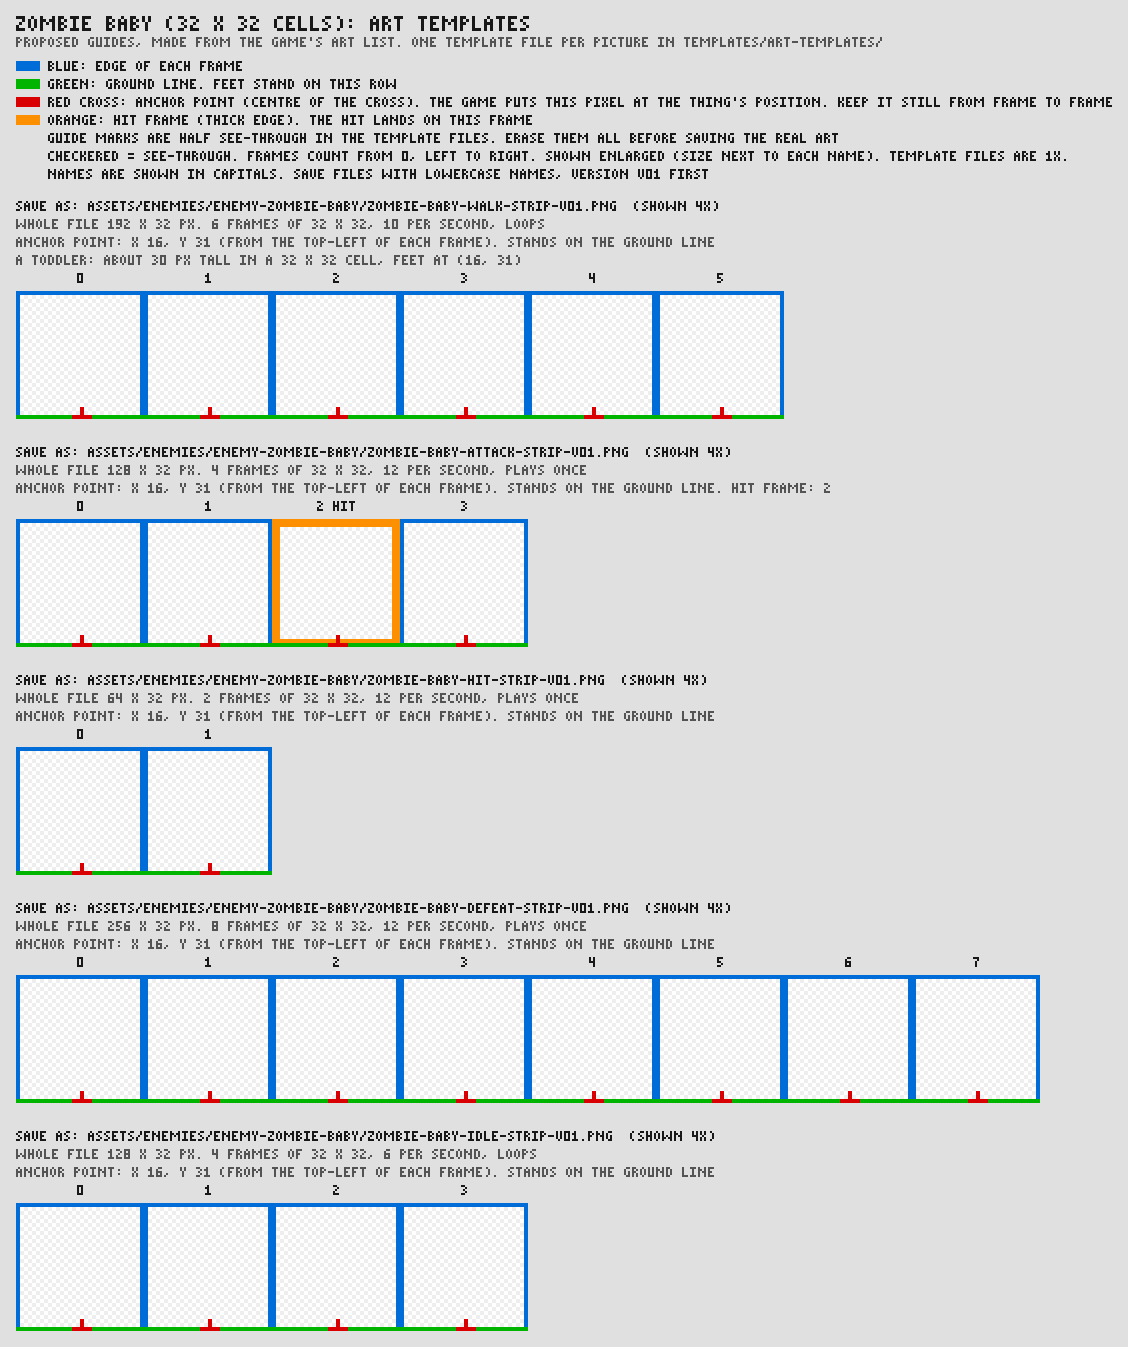
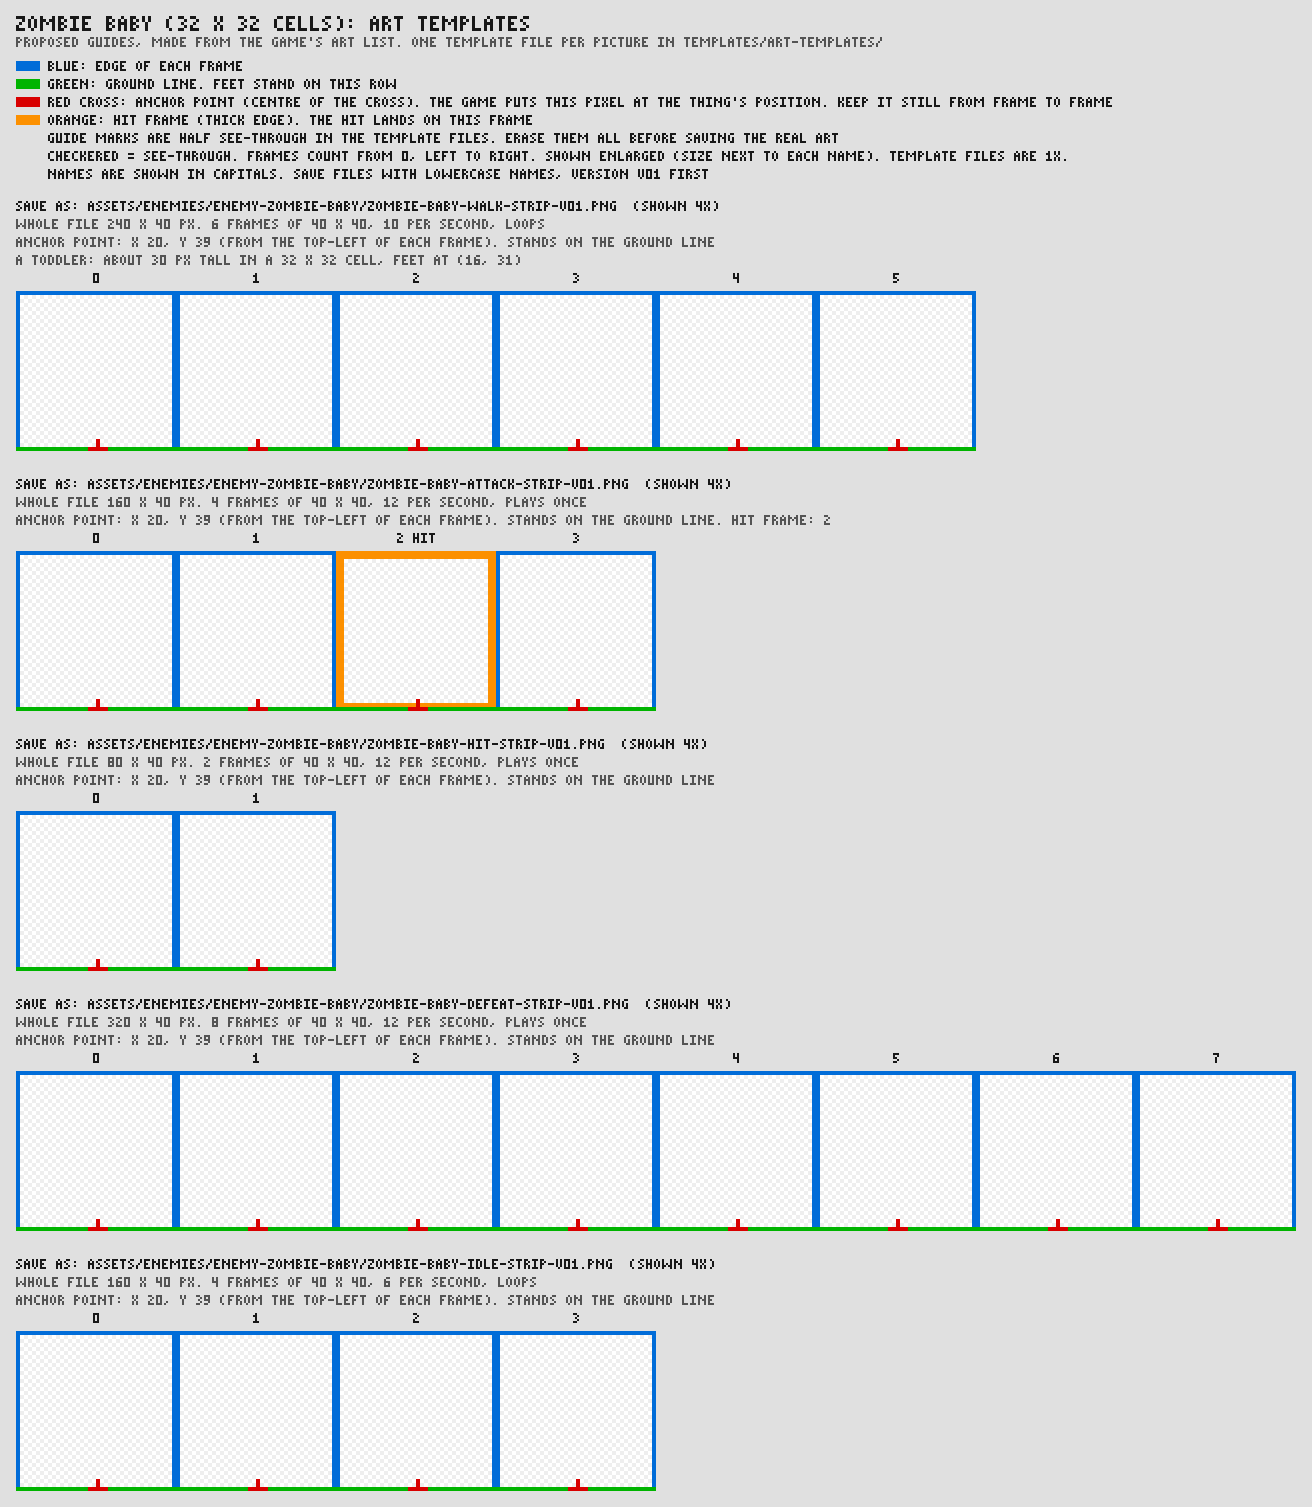
Install the zombie roster art: hippie, sweater, cheerleader, baby and the Brute (33 strips)
- Strips cut from the owner's sheets with importer v2, contrasting schemes
  (orange/yellow hippie, zigzag sweater, white/blue cheerleader, pastel baby),
  Brute with full gore; 33 ASSET_SOURCES rows
- Baby cell 32x32 -> 40x40 feet (20,39) so her gags survive; docs + templates
- Build: 48 real art files included, 0 left out; 139 rule/importer tests,
  57 browser checks

Claude-Session: https://claude.ai/code/session_0134CphAw1ZDVQLg8q3hqWcr

Changed region(s): [[0.0, 0.0, 0.9929, 0.9978], [0.6826, 0.343, 0.7137, 0.3742]]

diff --git a/game/dist/index.html b/game/dist/index.html
@@ -548,8 +548,8 @@ globalThis.SAMMY_ASSET_BASE = 'assets/';
   const SWE = 'enemies/enemy-zombie-sweater/';
   const big = { fw: 64, fh: 56, px: 32, py: 55 }; // the sweater's cells: he stands about 52 px, wider than a 48 px cell
   const CHEER = 'enemies/enemy-zombie-cheerleader/'; // 48x48, feet (24, 47) like the jogger (zombie roster, 2026-10-20)
-  const BABY = 'enemies/enemy-zombie-baby/';         // a toddler: 32x32 cells, feet (16, 31), about 30 px standing
-  const baby = { fw: 32, fh: 32, px: 16, py: 31 };
+  const BABY = 'enemies/enemy-zombie-baby/';         // a toddler: 40x40 cells, feet (20, 39), about 36 px standing
+  const baby = { fw: 40, fh: 40, px: 20, py: 39 }; // 40x40 cells (about 36 px standing): at 32 px her eyeball/rattle/brain gags turned to mush
   const CART = 'props/prop-hot-dog-cart/';
   const LID = 'items/item-powerup-trash-lid-shield/';
   const SAW = 'items/item-powerup-chainsaw/';
@@ -796,7 +796,7 @@ globalThis.SAMMY_ASSET_BASE = 'assets/';
 })(globalThis.SAMMY = globalThis.SAMMY || {});
 
 // ---- src/asset-files.js ----
-(function (S) { S.PRESENT_ASSET_FILES = {"characters/character-sammy/sammy-idle-strip-v01.png":"characters/character-sammy/sammy-idle-strip-v03.png","characters/character-sammy/sammy-run-strip-v01.png":"characters/character-sammy/sammy-run-strip-v03.png","characters/character-sammy/sammy-jump-rise-strip-v01.png":"characters/character-sammy/sammy-jump-rise-strip-v03.png","characters/character-sammy/sammy-fall-strip-v01.png":"characters/character-sammy/sammy-fall-strip-v03.png","characters/character-sammy/sammy-land-strip-v01.png":"characters/character-sammy/sammy-land-strip-v03.png","characters/character-sammy/sammy-tail-whip-strip-v01.png":"characters/character-sammy/sammy-tail-whip-strip-v03.png","characters/character-sammy/sammy-hurt-strip-v01.png":"characters/character-sammy/sammy-hurt-strip-v03.png","characters/character-sammy/sammy-play-dead-strip-v01.png":"characters/character-sammy/sammy-play-dead-strip-v03.png","characters/character-sammy/sammy-ko-strip-v01.png":"characters/character-sammy/sammy-ko-strip-v03.png","characters/character-sammy/sammy-victory-strip-v01.png":"characters/character-sammy/sammy-victory-strip-v03.png","characters/character-sammy/sammy-chainsaw-idle-strip-v01.png":"characters/character-sammy/sammy-chainsaw-idle-strip-v03.png","characters/character-sammy/sammy-chainsaw-run-strip-v01.png":"characters/character-sammy/sammy-chainsaw-run-strip-v03.png","characters/character-sammy/sammy-chainsaw-rev-strip-v01.png":"characters/character-sammy/sammy-chainsaw-rev-strip-v03.png","items/item-powerup-chainsaw/chainsaw-pickup-strip-v01.png":"items/item-powerup-chainsaw/chainsaw-pickup-strip-v01.png","items/item-powerup-chainsaw/hud-icon-chainsaw-v01.png":"items/item-powerup-chainsaw/hud-icon-chainsaw-v01.png"}; S.PRESENT_SOUND_FILES = {}; })(globalThis.SAMMY = globalThis.SAMMY || {});
+(function (S) { S.PRESENT_ASSET_FILES = {"characters/character-sammy/sammy-idle-strip-v01.png":"characters/character-sammy/sammy-idle-strip-v03.png","characters/character-sammy/sammy-run-strip-v01.png":"characters/character-sammy/sammy-run-strip-v03.png","characters/character-sammy/sammy-jump-rise-strip-v01.png":"characters/character-sammy/sammy-jump-rise-strip-v03.png","characters/character-sammy/sammy-fall-strip-v01.png":"characters/character-sammy/sammy-fall-strip-v03.png","characters/character-sammy/sammy-land-strip-v01.png":"characters/character-sammy/sammy-land-strip-v03.png","characters/character-sammy/sammy-tail-whip-strip-v01.png":"characters/character-sammy/sammy-tail-whip-strip-v03.png","characters/character-sammy/sammy-hurt-strip-v01.png":"characters/character-sammy/sammy-hurt-strip-v03.png","characters/character-sammy/sammy-play-dead-strip-v01.png":"characters/character-sammy/sammy-play-dead-strip-v03.png","characters/character-sammy/sammy-ko-strip-v01.png":"characters/character-sammy/sammy-ko-strip-v03.png","characters/character-sammy/sammy-victory-strip-v01.png":"characters/character-sammy/sammy-victory-strip-v03.png","characters/character-sammy/sammy-chainsaw-idle-strip-v01.png":"characters/character-sammy/sammy-chainsaw-idle-strip-v03.png","characters/character-sammy/sammy-chainsaw-run-strip-v01.png":"characters/character-sammy/sammy-chainsaw-run-strip-v03.png","characters/character-sammy/sammy-chainsaw-rev-strip-v01.png":"characters/character-sammy/sammy-chainsaw-rev-strip-v03.png","enemies/enemy-zombie-hippie/zombie-hippie-walk-strip-v01.png":"enemies/enemy-zombie-hippie/zombie-hippie-walk-strip-v01.png","enemies/enemy-zombie-hippie/zombie-hippie-attack-strip-v01.png":"enemies/enemy-zombie-hippie/zombie-hippie-attack-strip-v01.png","enemies/enemy-zombie-hippie/zombie-hippie-hit-strip-v01.png":"enemies/enemy-zombie-hippie/zombie-hippie-hit-strip-v01.png","enemies/enemy-zombie-hippie/zombie-hippie-defeat-strip-v01.png":"enemies/enemy-zombie-hippie/zombie-hippie-defeat-strip-v01.png","enemies/enemy-zombie-hippie/zombie-hippie-idle-strip-v01.png":"enemies/enemy-zombie-hippie/zombie-hippie-idle-strip-v01.png","enemies/enemy-zombie-sweater/zombie-sweater-walk-strip-v01.png":"enemies/enemy-zombie-sweater/zombie-sweater-walk-strip-v01.png","enemies/enemy-zombie-sweater/zombie-sweater-attack-strip-v01.png":"enemies/enemy-zombie-sweater/zombie-sweater-attack-strip-v01.png","enemies/enemy-zombie-sweater/zombie-sweater-hit-strip-v01.png":"enemies/enemy-zombie-sweater/zombie-sweater-hit-strip-v01.png","enemies/enemy-zombie-sweater/zombie-sweater-defeat-strip-v01.png":"enemies/enemy-zombie-sweater/zombie-sweater-defeat-strip-v01.png","enemies/enemy-zombie-sweater/zombie-sweater-idle-strip-v01.png":"enemies/enemy-zombie-sweater/zombie-sweater-idle-strip-v01.png","enemies/enemy-zombie-cheerleader/zombie-cheerleader-walk-strip-v01.png":"enemies/enemy-zombie-cheerleader/zombie-cheerleader-walk-strip-v01.png","enemies/enemy-zombie-cheerleader/zombie-cheerleader-attack-strip-v01.png":"enemies/enemy-zombie-cheerleader/zombie-cheerleader-attack-strip-v01.png","enemies/enemy-zombie-cheerleader/zombie-cheerleader-hit-strip-v01.png":"enemies/enemy-zombie-cheerleader/zombie-cheerleader-hit-strip-v01.png","enemies/enemy-zombie-cheerleader/zombie-cheerleader-defeat-strip-v01.png":"enemies/enemy-zombie-cheerleader/zombie-cheerleader-defeat-strip-v01.png","enemies/enemy-zombie-cheerleader/zombie-cheerleader-idle-strip-v01.png":"enemies/enemy-zombie-cheerleader/zombie-cheerleader-idle-strip-v01.png","enemies/enemy-zombie-baby/zombie-baby-walk-strip-v01.png":"enemies/enemy-zombie-baby/zombie-baby-walk-strip-v01.png","enemies/enemy-zombie-baby/zombie-baby-attack-strip-v01.png":"enemies/enemy-zombie-baby/zombie-baby-attack-strip-v01.png","enemies/enemy-zombie-baby/zombie-baby-hit-strip-v01.png":"enemies/enemy-zombie-baby/zombie-baby-hit-strip-v01.png","enemies/enemy-zombie-baby/zombie-baby-defeat-strip-v01.png":"enemies/enemy-zombie-baby/zombie-baby-defeat-strip-v01.png","enemies/enemy-zombie-baby/zombie-baby-idle-strip-v01.png":"enemies/enemy-zombie-baby/zombie-baby-idle-strip-v01.png","items/item-powerup-chainsaw/chainsaw-pickup-strip-v01.png":"items/item-powerup-chainsaw/chainsaw-pickup-strip-v01.png","items/item-powerup-chainsaw/hud-icon-chainsaw-v01.png":"items/item-powerup-chainsaw/hud-icon-chainsaw-v01.png","enemies/enemy-zombie-brute/brute-walk-strip-v01.png":"enemies/enemy-zombie-brute/brute-walk-strip-v01.png","enemies/enemy-zombie-brute/brute-swipe-strip-v01.png":"enemies/enemy-zombie-brute/brute-swipe-strip-v01.png","enemies/enemy-zombie-brute/brute-slam-strip-v01.png":"enemies/enemy-zombie-brute/brute-slam-strip-v01.png","enemies/enemy-zombie-brute/brute-spin-strip-v01.png":"enemies/enemy-zombie-brute/brute-spin-strip-v01.png","enemies/enemy-zombie-brute/brute-vomit-strip-v01.png":"enemies/enemy-zombie-brute/brute-vomit-strip-v01.png","enemies/enemy-zombie-brute/brute-vomit-stream-strip-v01.png":"enemies/enemy-zombie-brute/brute-vomit-stream-strip-v01.png","enemies/enemy-zombie-brute/brute-stagger-strip-v01.png":"enemies/enemy-zombie-brute/brute-stagger-strip-v01.png","enemies/enemy-zombie-brute/brute-death-strip-v01.png":"enemies/enemy-zombie-brute/brute-death-strip-v01.png","enemies/enemy-zombie-brute/brute-faces-strip-v01.png":"enemies/enemy-zombie-brute/brute-faces-strip-v01.png","enemies/enemy-zombie-brute/brute-acid-splat-strip-v01.png":"enemies/enemy-zombie-brute/brute-acid-splat-strip-v01.png","enemies/enemy-zombie-brute/brute-acid-smoke-strip-v01.png":"enemies/enemy-zombie-brute/brute-acid-smoke-strip-v01.png","enemies/enemy-zombie-brute/brute-blood-slash-strip-v01.png":"enemies/enemy-zombie-brute/brute-blood-slash-strip-v01.png","enemies/enemy-zombie-brute/brute-dust-strip-v01.png":"enemies/enemy-zombie-brute/brute-dust-strip-v01.png"}; S.PRESENT_SOUND_FILES = {}; })(globalThis.SAMMY = globalThis.SAMMY || {});
 
 // ---- src/sim.js ----
 // Game rules for the Sammy prototype. No drawing, no browser APIs: it runs the same in Node tests.

diff --git a/game/src/asset-files.js b/game/src/asset-files.js
@@ -16,8 +16,41 @@
     "characters/character-sammy/sammy-chainsaw-idle-strip-v01.png": "characters/character-sammy/sammy-chainsaw-idle-strip-v03.png",
     "characters/character-sammy/sammy-chainsaw-run-strip-v01.png": "characters/character-sammy/sammy-chainsaw-run-strip-v03.png",
     "characters/character-sammy/sammy-chainsaw-rev-strip-v01.png": "characters/character-sammy/sammy-chainsaw-rev-strip-v03.png",
+    "enemies/enemy-zombie-hippie/zombie-hippie-walk-strip-v01.png": "enemies/enemy-zombie-hippie/zombie-hippie-walk-strip-v01.png",
+    "enemies/enemy-zombie-hippie/zombie-hippie-attack-strip-v01.png": "enemies/enemy-zombie-hippie/zombie-hippie-attack-strip-v01.png",
+    "enemies/enemy-zombie-hippie/zombie-hippie-hit-strip-v01.png": "enemies/enemy-zombie-hippie/zombie-hippie-hit-strip-v01.png",
+    "enemies/enemy-zombie-hippie/zombie-hippie-defeat-strip-v01.png": "enemies/enemy-zombie-hippie/zombie-hippie-defeat-strip-v01.png",
+    "enemies/enemy-zombie-hippie/zombie-hippie-idle-strip-v01.png": "enemies/enemy-zombie-hippie/zombie-hippie-idle-strip-v01.png",
+    "enemies/enemy-zombie-sweater/zombie-sweater-walk-strip-v01.png": "enemies/enemy-zombie-sweater/zombie-sweater-walk-strip-v01.png",
+    "enemies/enemy-zombie-sweater/zombie-sweater-attack-strip-v01.png": "enemies/enemy-zombie-sweater/zombie-sweater-attack-strip-v01.png",
+    "enemies/enemy-zombie-sweater/zombie-sweater-hit-strip-v01.png": "enemies/enemy-zombie-sweater/zombie-sweater-hit-strip-v01.png",
+    "enemies/enemy-zombie-sweater/zombie-sweater-defeat-strip-v01.png": "enemies/enemy-zombie-sweater/zombie-sweater-defeat-strip-v01.png",
+    "enemies/enemy-zombie-sweater/zombie-sweater-idle-strip-v01.png": "enemies/enemy-zombie-sweater/zombie-sweater-idle-strip-v01.png",
+    "enemies/enemy-zombie-cheerleader/zombie-cheerleader-walk-strip-v01.png": "enemies/enemy-zombie-cheerleader/zombie-cheerleader-walk-strip-v01.png",
+    "enemies/enemy-zombie-cheerleader/zombie-cheerleader-attack-strip-v01.png": "enemies/enemy-zombie-cheerleader/zombie-cheerleader-attack-strip-v01.png",
+    "enemies/enemy-zombie-cheerleader/zombie-cheerleader-hit-strip-v01.png": "enemies/enemy-zombie-cheerleader/zombie-cheerleader-hit-strip-v01.png",
+    "enemies/enemy-zombie-cheerleader/zombie-cheerleader-defeat-strip-v01.png": "enemies/enemy-zombie-cheerleader/zombie-cheerleader-defeat-strip-v01.png",
+    "enemies/enemy-zombie-cheerleader/zombie-cheerleader-idle-strip-v01.png": "enemies/enemy-zombie-cheerleader/zombie-cheerleader-idle-strip-v01.png",
+    "enemies/enemy-zombie-baby/zombie-baby-walk-strip-v01.png": "enemies/enemy-zombie-baby/zombie-baby-walk-strip-v01.png",
+    "enemies/enemy-zombie-baby/zombie-baby-attack-strip-v01.png": "enemies/enemy-zombie-baby/zombie-baby-attack-strip-v01.png",
+    "enemies/enemy-zombie-baby/zombie-baby-hit-strip-v01.png": "enemies/enemy-zombie-baby/zombie-baby-hit-strip-v01.png",
+    "enemies/enemy-zombie-baby/zombie-baby-defeat-strip-v01.png": "enemies/enemy-zombie-baby/zombie-baby-defeat-strip-v01.png",
+    "enemies/enemy-zombie-baby/zombie-baby-idle-strip-v01.png": "enemies/enemy-zombie-baby/zombie-baby-idle-strip-v01.png",
     "items/item-powerup-chainsaw/chainsaw-pickup-strip-v01.png": "items/item-powerup-chainsaw/chainsaw-pickup-strip-v01.png",
-    "items/item-powerup-chainsaw/hud-icon-chainsaw-v01.png": "items/item-powerup-chainsaw/hud-icon-chainsaw-v01.png"
+    "items/item-powerup-chainsaw/hud-icon-chainsaw-v01.png": "items/item-powerup-chainsaw/hud-icon-chainsaw-v01.png",
+    "enemies/enemy-zombie-brute/brute-walk-strip-v01.png": "enemies/enemy-zombie-brute/brute-walk-strip-v01.png",
+    "enemies/enemy-zombie-brute/brute-swipe-strip-v01.png": "enemies/enemy-zombie-brute/brute-swipe-strip-v01.png",
+    "enemies/enemy-zombie-brute/brute-slam-strip-v01.png": "enemies/enemy-zombie-brute/brute-slam-strip-v01.png",
+    "enemies/enemy-zombie-brute/brute-spin-strip-v01.png": "enemies/enemy-zombie-brute/brute-spin-strip-v01.png",
+    "enemies/enemy-zombie-brute/brute-vomit-strip-v01.png": "enemies/enemy-zombie-brute/brute-vomit-strip-v01.png",
+    "enemies/enemy-zombie-brute/brute-vomit-stream-strip-v01.png": "enemies/enemy-zombie-brute/brute-vomit-stream-strip-v01.png",
+    "enemies/enemy-zombie-brute/brute-stagger-strip-v01.png": "enemies/enemy-zombie-brute/brute-stagger-strip-v01.png",
+    "enemies/enemy-zombie-brute/brute-death-strip-v01.png": "enemies/enemy-zombie-brute/brute-death-strip-v01.png",
+    "enemies/enemy-zombie-brute/brute-faces-strip-v01.png": "enemies/enemy-zombie-brute/brute-faces-strip-v01.png",
+    "enemies/enemy-zombie-brute/brute-acid-splat-strip-v01.png": "enemies/enemy-zombie-brute/brute-acid-splat-strip-v01.png",
+    "enemies/enemy-zombie-brute/brute-acid-smoke-strip-v01.png": "enemies/enemy-zombie-brute/brute-acid-smoke-strip-v01.png",
+    "enemies/enemy-zombie-brute/brute-blood-slash-strip-v01.png": "enemies/enemy-zombie-brute/brute-blood-slash-strip-v01.png",
+    "enemies/enemy-zombie-brute/brute-dust-strip-v01.png": "enemies/enemy-zombie-brute/brute-dust-strip-v01.png"
   };
   S.PRESENT_SOUND_FILES = {
     "music-level-01-central-park": [

diff --git a/game/src/assets.js b/game/src/assets.js
@@ -25,8 +25,8 @@
   const SWE = 'enemies/enemy-zombie-sweater/';
   const big = { fw: 64, fh: 56, px: 32, py: 55 }; // the sweater's cells: he stands about 52 px, wider than a 48 px cell
   const CHEER = 'enemies/enemy-zombie-cheerleader/'; // 48x48, feet (24, 47) like the jogger (zombie roster, 2026-10-20)
-  const BABY = 'enemies/enemy-zombie-baby/';         // a toddler: 32x32 cells, feet (16, 31), about 30 px standing
-  const baby = { fw: 32, fh: 32, px: 16, py: 31 };
+  const BABY = 'enemies/enemy-zombie-baby/';         // a toddler: 40x40 cells, feet (20, 39), about 36 px standing
+  const baby = { fw: 40, fh: 40, px: 20, py: 39 }; // 40x40 cells (about 36 px standing): at 32 px her eyeball/rattle/brain gags turned to mush
   const CART = 'props/prop-hot-dog-cart/';
   const LID = 'items/item-powerup-trash-lid-shield/';
   const SAW = 'items/item-powerup-chainsaw/';

diff --git a/design/DECISIONS.md b/design/DECISIONS.md
@@ -64,7 +64,7 @@ Record date, decision, supporting asset or requirement, and unresolved questions
 **Step 3 (part): the cheerleader and the baby (Proposed, reversible; built in a side branch, level placement by the integrator).**
 - **Cheerleader ("the dodge test"), `config.js` `cheerleader`:** a walker with `leap: true`. In the chase she stops 66 px off; from 72 px she **stops and cheers for 0.45 s** (the idle strip, harmless, `sfx-cheer`), then **leaps** (170 px/s forward, 190 px/s up: about 0.42 s in the air, 20 px high, 72 px long, `sfx-leap`): the leap hurts on touch; the landing is harmless and she is stuck for 0.2 s (whip her then), then 2 s until the next leap. She never leaps where the landing spot isn't ground, and (added here) never through a rock, fence, cart or gate in her lane: she waits on her side instead. Play Possum confuses her for 0.75 s of grace, and a leap already started finishes in the air (she goes confused on landing). Two whips; `burst` death (pom-poms and the bow fly off, a red splash) with the lines `GO TEAM. DEAD.` / `RAH RAH. SHIT.` / `SPIRIT: ZERO.`; sliced by the saw. The real attack strip is **picked by state** (1 rising, 2 falling, 3 landing; frame 0 spare), so no timing test applies to it.
 - **Baby ("the litter"), `config.js` `baby`:** a walker with 1 hp, patrol 30 / chase 90 (faster than a jogger, slower than Sammy), a rattle smack from 18 px with its box 16 px up (`hitY`, low enough to reach a lying Sammy), `sfx-baby-rattle`, its own cry on going down (`sfx-baby-cry`). **`possum: 'ignore'`:** Play Possum does nothing to it: it notices a lying Sammy, keeps coming, and a bump still hurts (owner question 10). Owner answer 8: it bleeds red and the saw slices it like anyone (no guard rails anywhere in the code). **A level entry `{ type: 'baby', x: 3010, litter: 3 }` stands three of them 32 px apart** (`litterGap`; ids `e5`, `e5-1`, `e5-2`, each patrolling round its own spot; the litter comes back whole after a K.O.). `litter` works for any type and defaults to 1. The gauntlet's `'baby*3'` wave entry is **not** built (the typed-waves step is the integrator's).
-- **Art slots, no art installed:** `cheerleader:*` five strips at 48×48, feet (24, 47); `baby:*` five strips at **32×32, feet (16, 31)** (about 30 px standing), under `assets/enemies/enemy-zombie-<name>/zombie-<name>-<anim>-strip-v01.png` (example docs in `templates/examples/enemy-zombie-cheerleader/` and `enemy-zombie-baby/`; templates regenerated, 67 planned pictures). The importer installs under the manifest name, so the finished strips drop in with no code change (a plain copy needs the `zombie-` prefix). Placeholders are coded in contrasting schemes with a 1 px outline: **maroon and cream** (blonde, pom-poms) and **pastel pink and blue** (mint skin, pink brain, eyeball on a stalk, yellow rattle); the palette gained `cheer`, `cheerDark`, `cream`, `creamDark`, `hair`, `babyPink`, `babyBlue`, `babyBlueDark`, `babySkin`, `brain`, `rattle` (all on the 9-bit grid, none a gore colour). No low-gore drawing was added (owner answer 6).
+- **Art slots, no art installed:** `cheerleader:*` five strips at 48×48, feet (24, 47); `baby:*` five strips at **40×40, feet (20, 39)** (about 30 px standing), under `assets/enemies/enemy-zombie-<name>/zombie-<name>-<anim>-strip-v01.png` (example docs in `templates/examples/enemy-zombie-cheerleader/` and `enemy-zombie-baby/`; templates regenerated, 67 planned pictures). The importer installs under the manifest name, so the finished strips drop in with no code change (a plain copy needs the `zombie-` prefix). Placeholders are coded in contrasting schemes with a 1 px outline: **maroon and cream** (blonde, pom-poms) and **pastel pink and blue** (mint skin, pink brain, eyeball on a stalk, yellow rattle); the palette gained `cheer`, `cheerDark`, `cream`, `creamDark`, `hair`, `babyPink`, `babyBlue`, `babyBlueDark`, `babySkin`, `brain`, `rattle` (all on the 9-bit grid, none a gore colour). No low-gore drawing was added (owner answer 6).
 - **Shared code touched, all additive:** the walker brain gained `windup` / `leap` / `land` (so the render sweep now draws them for every walker), `possum: 'ignore'`, optional `attackSfx` / `defeatSfx` per type, `S.makeEnemy` / `S.makeEnemies` (the litter helper, reusable for typed waves), `S.leapLength`; the render sweep and gore demo make a stand-in of any type the level doesn't place, so every drawer is drawn (sweep 64 pictures); the sound-manifest test also reads sound ids out of `config.js` and checks every sound has its `assets/audio/sfx/<id>/.gitkeep`.
 - **Autopilot:** two small rules in `bot.js`: outside the arena it stops for a zombie right behind it that is coming for it (a leaper that just landed, a toddler that caught up) and turns to whip it; and it only waits half a second for a zombie that keeps its distance (a cheerleader waiting to leap, anything behind a fence) before walking on. The full playthrough still clears, and a test level with two cheerleaders and a litter added clears in god mode with both types whipped on the way.
 - **Dodges checked in tests:** a step back during the cheer makes her land about 46 px short; a jump pressed as she launches clears her (a jump at the tell is too early: Sammy is landing when she arrives, so the tell is the warning and the launch is the cue).

diff --git a/templates/examples/enemy-zombie-baby/ASSET.md b/templates/examples/enemy-zombie-baby/ASSET.md
@@ -17,11 +17,11 @@
 
 | File (planned — not yet supplied) | Type | Purpose |
 |---|---|---|
-| `zombie-baby-walk-strip-v01.png` | Production strip | A fast toddle, 6 frames, 192×32 px |
-| `zombie-baby-attack-strip-v01.png` | Production strip | Rattle smack, 4 frames, 128×32 px, hit frame 2 |
-| `zombie-baby-hit-strip-v01.png` | Production strip | 2 frames, 64×32 px (frame 0 is also the chainsaw-cut pose) |
-| `zombie-baby-defeat-strip-v01.png` | Production strip | The pop, 8 frames, 256×32 px |
-| `zombie-baby-idle-strip-v01.png` | Production strip | 4 frames, 128×32 px (arena drop-in; it is never confused) |
+| `zombie-baby-walk-strip-v01.png` | Production strip | A fast toddle, 6 frames, 240×40 px |
+| `zombie-baby-attack-strip-v01.png` | Production strip | Rattle smack, 4 frames, 160×40 px, hit frame 2 |
+| `zombie-baby-hit-strip-v01.png` | Production strip | 2 frames, 80×40 px (frame 0 is also the chainsaw-cut pose) |
+| `zombie-baby-defeat-strip-v01.png` | Production strip | The pop, 8 frames, 320×40 px |
+| `zombie-baby-idle-strip-v01.png` | Production strip | 4 frames, 160×40 px (arena drop-in; it is never confused) |
 
 ## Animation
 - Frame width × height in pixels: 32 × 32. Pivot / feet baseline: bottom-centre (16, 31), feet on row 31 in every grounded frame.
